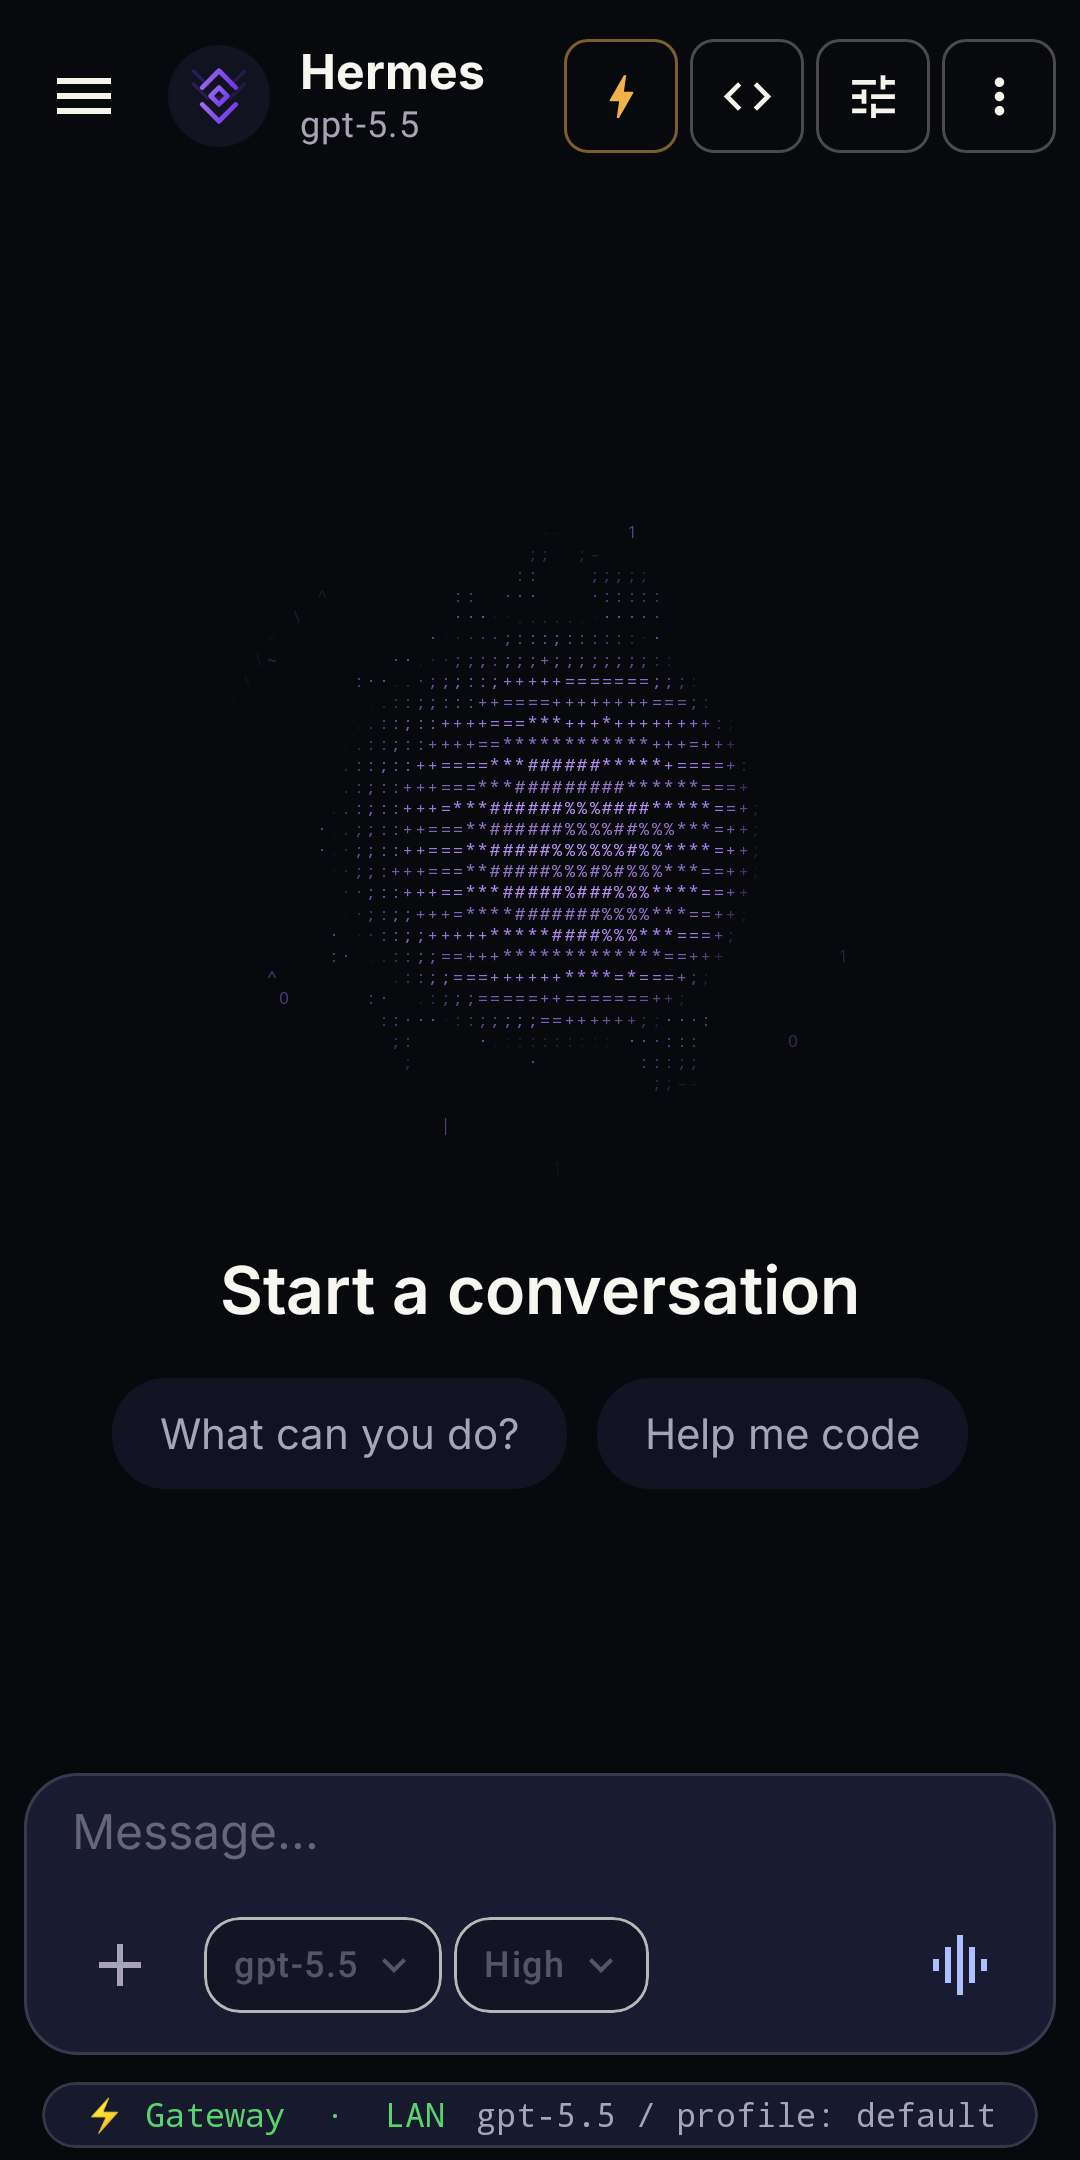
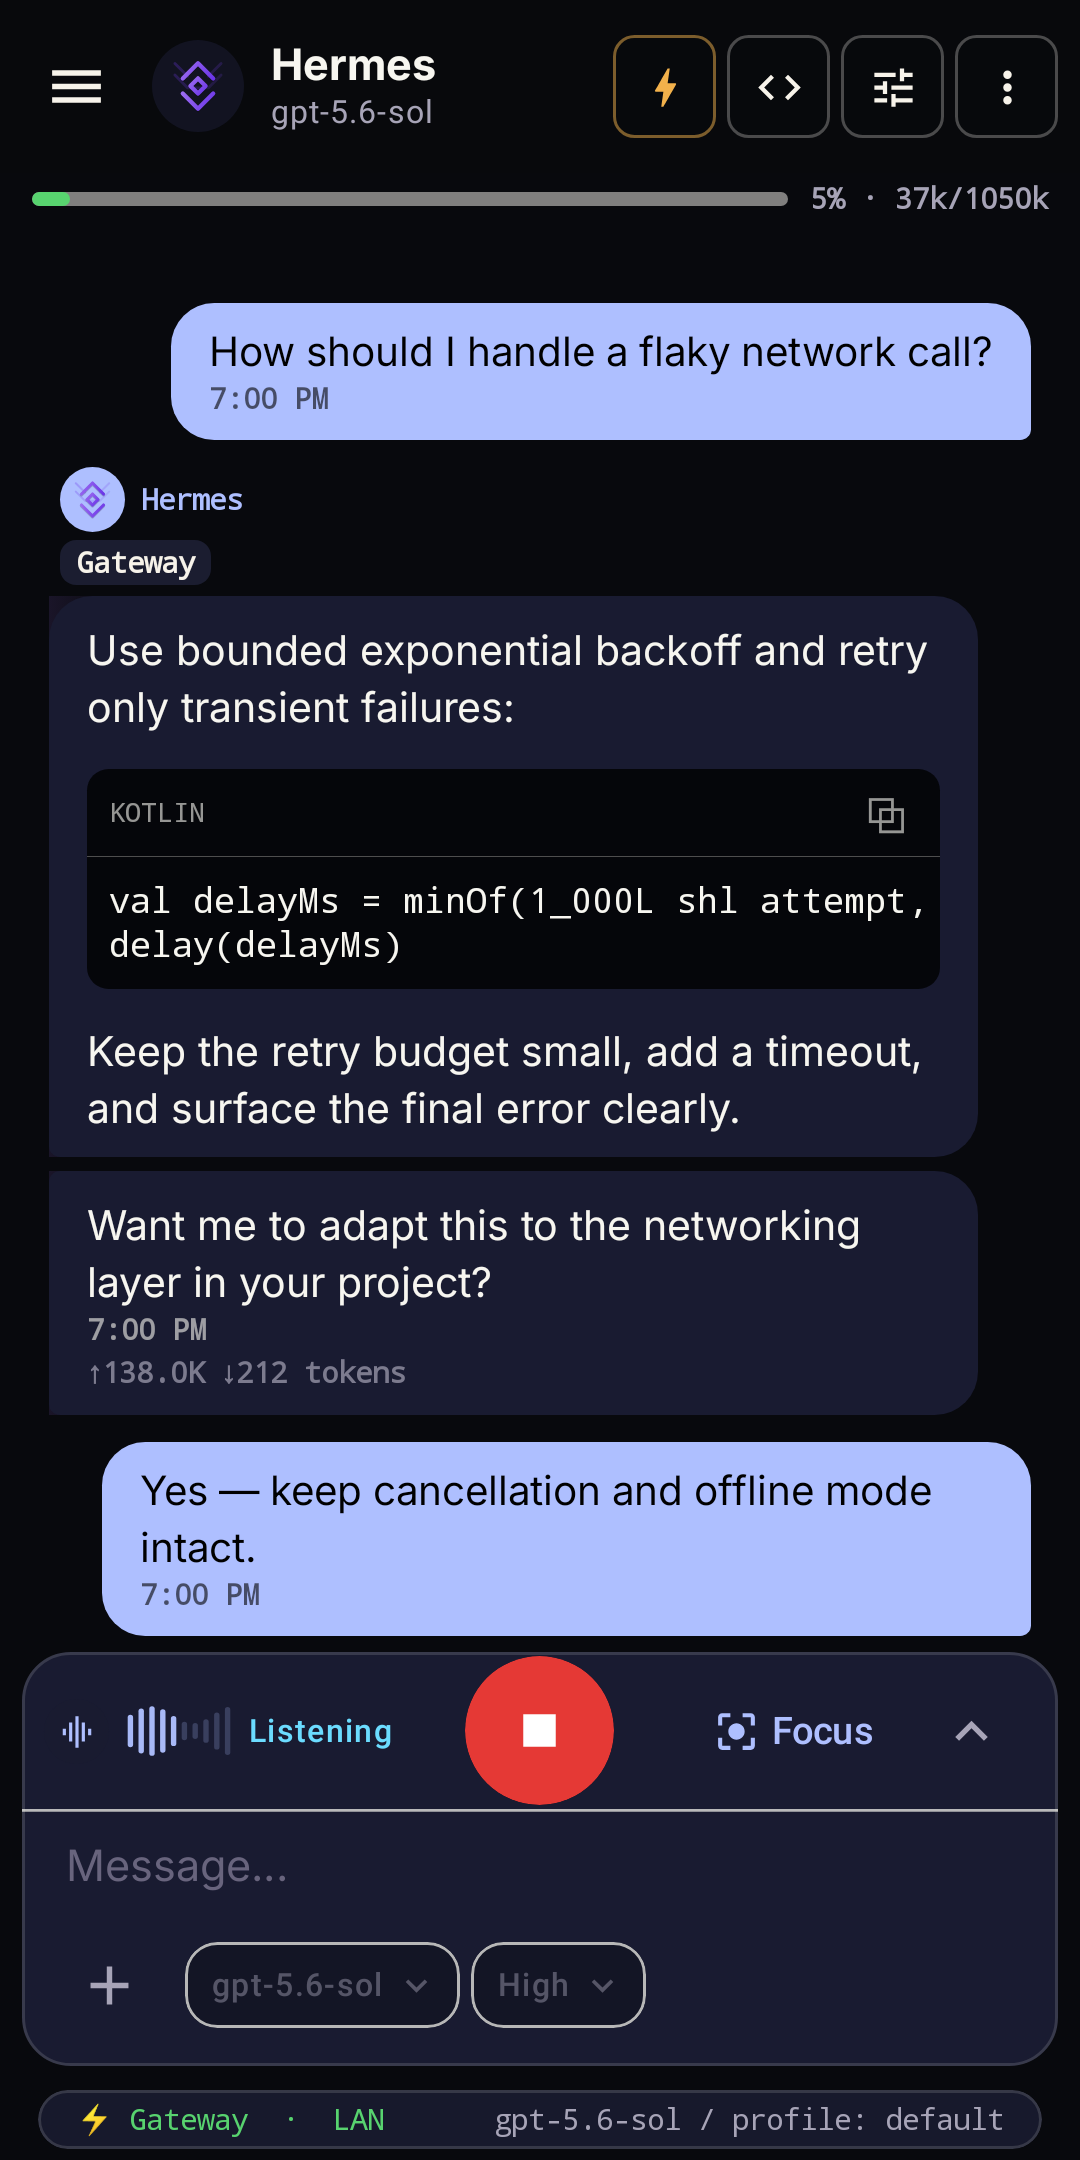
feat(marketing): refresh product screenshots

diff --git a/app/src/test/kotlin/com/hermesandroid/relay/screenshots/StoreScreenshotTest.kt b/app/src/test/kotlin/com/hermesandroid/relay/screenshots/StoreScreenshotTest.kt
@@ -1,9 +1,5 @@
 package com.hermesandroid.relay.screenshots
 
-import android.graphics.Bitmap
-import android.graphics.Canvas as AndroidCanvas
-import android.graphics.Color as AndroidColor
-import android.graphics.Paint as AndroidPaint
 import androidx.compose.foundation.background
 import androidx.compose.foundation.border
 import androidx.compose.foundation.verticalScroll
@@ -67,6 +63,7 @@ import com.hermesandroid.relay.ui.components.ChatInputBar
 import com.hermesandroid.relay.ui.components.ChatInputPickerControl
 import com.hermesandroid.relay.ui.components.ChatInputTrailing
 import com.hermesandroid.relay.ui.components.ContextMeterBar
+import com.hermesandroid.relay.ui.components.ConversationVoiceDock
 import com.hermesandroid.relay.ui.components.MessageBubble
 import com.hermesandroid.relay.ui.components.MorphingSphere
 import com.hermesandroid.relay.ui.components.RelayChromeIconButton
@@ -111,7 +108,6 @@ import org.junit.runner.RunWith
 import org.robolectric.annotation.Config
 import org.robolectric.annotation.GraphicsMode
 import java.io.File
-import java.io.FileOutputStream
 
 /**
  * Deterministic, host-side marketing frames with Roborazzi.
@@ -129,7 +125,7 @@ import java.io.FileOutputStream
  */
 @RunWith(AndroidJUnit4::class)
 @GraphicsMode(GraphicsMode.Mode.NATIVE)
-@Config(qualifiers = "w360dp-h720dp-xxhdpi") // 1080x2160 px @ density 3.0
+@Config(qualifiers = "w400dp-h800dp-432dpi") // 1080x2160 px, Galaxy Ultra-like 400x800dp viewport
 class StoreScreenshotTest {
 
     @get:Rule
@@ -179,6 +175,18 @@ class StoreScreenshotTest {
         compose.mainClock.advanceTimeByFrame()
         compose.onRoot().captureRoboImage("build/store-shots/03_voice.png")
     }
+    @Test fun s11_voice_conversation() {
+        compose.mainClock.autoAdvance = false
+        compose.setContent {
+            HermesRelayTheme(appThemeId = "hermes-relay", themePreference = "dark") {
+                CompositionLocalProvider(LocalSphereSkin provides SphereRegistry.Adaptive) {
+                    VoiceConversationScene()
+                }
+            }
+        }
+        compose.mainClock.advanceTimeByFrame()
+        compose.onRoot().captureRoboImage("build/store-shots/11_voice_conversation.png")
+    }
     // Real screen (1:1, auto-updates on layout changes). ConnectionViewModel
     // takes only an Application; Robolectric provides it. Renders every section
     // the production Appearance screen has — theme grid, mode, font, animation,
@@ -191,7 +199,6 @@ class StoreScreenshotTest {
                     AppearanceSettingsScreen(
                         connectionViewModel = vm,
                         onBack = {},
-                        initialCustomizerExpanded = true,
                     )
                 }
             }
@@ -257,42 +264,15 @@ class StoreScreenshotTest {
         compose.onRoot().captureRoboImage("build/store-shots/08_appearance.png")
     }
 
-    /** Public-safe, deterministic one-frame pet rendered through PetAvatar. */
+    /** Pinned Petdex Teknium idle frame rendered through the production PetAvatar. */
     private fun marketingPet(): PetAvatar {
-        val output = File("build/store-fixtures/pixel-companion.png")
-        output.parentFile?.mkdirs()
-
-        val bitmap = Bitmap.createBitmap(192, 192, Bitmap.Config.ARGB_8888)
-        val canvas = AndroidCanvas(bitmap)
-        val paint = AndroidPaint(AndroidPaint.ANTI_ALIAS_FLAG)
-
-        paint.color = AndroidColor.rgb(126, 87, 255)
-        canvas.drawRoundRect(36f, 48f, 156f, 154f, 34f, 34f, paint)
-        canvas.drawCircle(58f, 48f, 27f, paint)
-        canvas.drawCircle(134f, 48f, 27f, paint)
-        paint.color = AndroidColor.rgb(177, 196, 255)
-        canvas.drawOval(54f, 76f, 82f, 108f, paint)
-        canvas.drawOval(110f, 76f, 138f, 108f, paint)
-        paint.color = AndroidColor.rgb(8, 9, 14)
-        canvas.drawCircle(68f, 92f, 7f, paint)
-        canvas.drawCircle(124f, 92f, 7f, paint)
-        paint.strokeWidth = 7f
-        paint.style = AndroidPaint.Style.STROKE
-        canvas.drawArc(76f, 98f, 116f, 134f, 12f, 156f, false, paint)
-        paint.style = AndroidPaint.Style.FILL
-        paint.color = AndroidColor.rgb(87, 218, 136)
-        canvas.drawRoundRect(50f, 146f, 86f, 170f, 12f, 12f, paint)
-        canvas.drawRoundRect(106f, 146f, 142f, 170f, 12f, 12f, paint)
-
-        FileOutputStream(output).use { bitmap.compress(Bitmap.CompressFormat.PNG, 100, it) }
-        bitmap.recycle()
-
+        val output = File("src/test/resources/marketing/petdex-teknium-idle.png")
         val clip = FrameSequenceClip(files = listOf(output), fps = 1f)
         val stateClips = SphereState.entries.associateWith { clip }
         return PetAvatar(
-            id = "pixel-companion",
-            label = "Pixel",
-            description = "A public-safe custom companion fixture",
+            id = "petdex-teknium",
+            label = "Teknium",
+            description = "Petdex companion by asimons81",
             reactivity = SphereReactivity(voice = true, tools = true, intensity = true, gaze = false),
             activityClips = stateClips,
             workingClip = clip,
@@ -357,10 +337,15 @@ private fun ChatScene() = StoreCockpit(contextUsage = 0.04f) {
 // surface, and the compact 340dp cap + tightened density match production.
 @Composable
 private fun BlendChatScene() = StoreCockpit(contextUsage = 0.06f) {
+    BlendThread()
+}
+
+@Composable
+private fun BlendThread() {
     val thread = MockChat.blendThread
     Column(
-        Modifier.fillMaxSize().padding(horizontal = 12.dp, vertical = 10.dp),
-        verticalArrangement = Arrangement.spacedBy(2.dp)
+        Modifier.fillMaxSize().padding(start = 18.dp, top = 14.dp, end = 18.dp),
+        verticalArrangement = Arrangement.spacedBy(4.dp, Alignment.Bottom)
     ) {
         thread.forEachIndexed { i, m ->
             val first = i == 0 || thread[i - 1].role != m.role
@@ -368,7 +353,7 @@ private fun BlendChatScene() = StoreCockpit(contextUsage = 0.06f) {
             MessageBubble(
                 message = m,
                 modifier = Modifier.padding(top = if (first) 6.dp else 1.dp),
-                maxBubbleWidth = 340.dp,
+                maxBubbleWidth = 344.dp,
                 isFirstInGroup = first,
                 isLastInGroup = last,
             )
@@ -386,6 +371,7 @@ private fun BlendChatScene() = StoreCockpit(contextUsage = 0.06f) {
 private fun StoreCockpit(
     contextUsage: Float? = null,
     showInput: Boolean = true,
+    conversationVoiceState: VoiceUiState? = null,
     content: @Composable () -> Unit
 ) {
     val dark = MaterialTheme.colorScheme.background.luminance() < 0.5f
@@ -405,7 +391,7 @@ private fun StoreCockpit(
                     }
                     Column(Modifier.padding(start = 10.dp)) {
                         Text("Hermes", style = MaterialTheme.typography.titleMedium, fontWeight = FontWeight.Bold, maxLines = 1, overflow = TextOverflow.Ellipsis)
-                        Text("gpt-5.5", style = MaterialTheme.typography.bodySmall, color = MaterialTheme.colorScheme.onSurfaceVariant, maxLines = 1)
+                        Text("gpt-5.6-sol", style = MaterialTheme.typography.bodySmall, color = MaterialTheme.colorScheme.onSurfaceVariant, maxLines = 1)
                     }
                 }
             },
@@ -434,11 +420,35 @@ private fun StoreCockpit(
                 showVoiceHint = false,
                 onVoiceHintShown = {},
                 isDarkTheme = dark,
-                modelControl = ChatInputPickerControl(value = "gpt-5.5", contentDescription = "Select model", options = emptyList()),
+                modelControl = ChatInputPickerControl(value = "gpt-5.6-sol", contentDescription = "Select model", options = emptyList()),
                 effortControl = ChatInputPickerControl(value = "High", contentDescription = "Select reasoning effort", options = emptyList()),
+                topContent = {
+                    conversationVoiceState?.let { state ->
+                        ConversationVoiceDock(
+                            uiState = state,
+                            engineMode = "hermes_voice_output",
+                            provider = "OpenAI",
+                            model = "gpt-4o-mini-tts",
+                            voice = "alloy",
+                            profileName = "Hermes",
+                            outputEnabled = true,
+                            onMicTap = {},
+                            onMicRelease = {},
+                            onInterrupt = {},
+                            onPauseAutoMode = {},
+                            onModeChange = {},
+                            onFocusRequest = {},
+                            onOverlayRequest = {},
+                            onOpenSettings = {},
+                            onExit = {},
+                        )
+                    }
+                },
+                topContentVisible = conversationVoiceState != null,
+                suppressVoiceTrailing = conversationVoiceState != null,
             )
         }
-        RelayStatusStrip(leading = "⚡ Gateway  ·  LAN", trailing = "gpt-5.5 / profile: default")
+        RelayStatusStrip(leading = "⚡ Gateway  ·  LAN", trailing = "gpt-5.6-sol / profile: default")
     }
 }
 
@@ -464,7 +474,7 @@ private fun StoreSettings(title: String, content: @Composable androidx.compose.f
             verticalArrangement = Arrangement.spacedBy(16.dp),
             content = content,
         )
-        RelayStatusStrip(leading = "⚡ Gateway  ·  LAN", trailing = "gpt-5.5 / profile: default")
+        RelayStatusStrip(leading = "⚡ Gateway  ·  LAN", trailing = "gpt-5.6-sol / profile: default")
     }
 }
 
@@ -499,6 +509,14 @@ private fun VoiceScene() = VoiceModeOverlay(
     presentationMode = VoicePresentationMode.Focus,
 )
 
+@Composable
+private fun VoiceConversationScene() = StoreCockpit(
+    contextUsage = 0.05f,
+    conversationVoiceState = marketingVoiceUiState,
+) {
+    BlendThread()
+}
+
 /** The real sphere renderer pinned to one frame for pixel-identical marketing output. */
 private object FrozenMarketingSphere : AgentAvatar {
     override val id = "marketing-sphere"
@@ -530,12 +548,12 @@ private fun ChatWithPetScene(pet: AgentAvatar) {
         FloatingPetCompanion(
             pet = pet,
             state = AvatarRenderState(state = SphereState.Idle, paused = true),
-            placement = PetPlacement(PetLogicalEdge.End, 0.63f),
+            placement = PetPlacement(PetLogicalEdge.End, 0.93f),
             roamingEnabled = false,
             roamingAllowed = false,
-            behaviorPreferences = PetBehaviorPreferences(),
+            behaviorPreferences = PetBehaviorPreferences(sizeScale = 1.05f),
             surfaceScrolling = false,
-            compact = false,
+            compact = true,
             animationEnabled = false,
             appForeground = true,
             route = null,
@@ -549,6 +567,14 @@ private fun ChatWithPetScene(pet: AgentAvatar) {
         )
     }
 }
+
+private val marketingVoiceUiState = VoiceUiState(
+    voiceMode = true,
+    state = VoiceState.Listening,
+    amplitude = 0.42f,
+    interactionMode = InteractionMode.Continuous,
+)
+
 
 @OptIn(androidx.compose.material3.ExperimentalMaterial3Api::class)
 @Composable
@@ -590,7 +616,7 @@ private fun ManageScene() {
                 com.hermesandroid.relay.ui.components.RelayNavTile(ic.Tune, "Models", "Pick provider + default model", {})
             }
         }
-        RelayStatusStrip(leading = "⚡ Gateway  ·  LAN", trailing = "gpt-5.5 / profile: default")
+        RelayStatusStrip(leading = "⚡ Gateway  ·  LAN", trailing = "gpt-5.6-sol / profile: default")
     }
 }
 
@@ -690,7 +716,7 @@ private object MockChat {
 
 @Composable
 private fun SessionsScene() {
-    // The production drawer intentionally caps itself at 320dp inside a 360dp
+    // The production drawer intentionally caps itself at 320dp inside a wider
     // phone. Keep the full app viewport as the capture root so Roborazzi does
     // not shrink-wrap the image to the drawer's intrinsic width.
     Box(Modifier.fillMaxSize().background(MaterialTheme.colorScheme.scrim)) {
@@ -721,11 +747,11 @@ private fun ConnectionsScene() = ConnectionsSettingsScreen(
 )
 
 private val marketingSessions = listOf(
-    ChatSession("morning-focus", "Morning focus tips", "gpt-5.5", 8, lastActivityAt = 1_780_000_000_000, pinned = true),
-    ChatSession("android-polish", "Android appearance polish", "gpt-5.5", 23, lastActivityAt = 1_779_999_900_000, source = "phone"),
-    ChatSession("weekly-report", "Weekly report draft", "gpt-5.5", 11, lastActivityAt = 1_779_999_800_000),
-    ChatSession("voice-notes", "Voice workflow notes", "gpt-5.5", 17, lastActivityAt = 1_779_999_700_000),
-    ChatSession("trip-planning", "Trip planning", "gpt-5.5", 31, lastActivityAt = 1_779_999_600_000),
+    ChatSession("morning-focus", "Morning focus tips", "gpt-5.6-sol", 8, lastActivityAt = 1_780_000_000_000, pinned = true),
+    ChatSession("android-polish", "Android appearance polish", "gpt-5.6-sol", 23, lastActivityAt = 1_779_999_900_000, source = "phone"),
+    ChatSession("weekly-report", "Weekly report draft", "gpt-5.6-sol", 11, lastActivityAt = 1_779_999_800_000),
+    ChatSession("voice-notes", "Voice workflow notes", "gpt-5.6-sol", 17, lastActivityAt = 1_779_999_700_000),
+    ChatSession("trip-planning", "Trip planning", "gpt-5.6-sol", 31, lastActivityAt = 1_779_999_600_000),
 )
 
 private val marketingConnections = listOf(

diff --git a/app/src/main/kotlin/com/hermesandroid/relay/ui/components/AgentAvatarFace.kt b/app/src/main/kotlin/com/hermesandroid/relay/ui/components/AgentAvatarFace.kt
@@ -1,15 +1,20 @@
 package com.hermesandroid.relay.ui.components
 
+import androidx.compose.foundation.Image
 import androidx.compose.foundation.layout.Box
 import androidx.compose.foundation.layout.fillMaxSize
+import androidx.compose.foundation.layout.padding
 import androidx.compose.material3.MaterialTheme
 import androidx.compose.material3.Text
 import androidx.compose.runtime.Composable
 import androidx.compose.ui.Alignment
 import androidx.compose.ui.Modifier
 import androidx.compose.ui.layout.ContentScale
+import androidx.compose.ui.res.painterResource
 import androidx.compose.ui.text.TextStyle
+import androidx.compose.ui.unit.dp
 import coil3.compose.AsyncImage
+import com.hermesandroid.relay.R
 import java.io.File
 
 /**
@@ -27,6 +32,15 @@ fun AgentAvatarFace(name: String, letterStyle: TextStyle, modifier: Modifier = M
             contentDescription = null,
             contentScale = ContentScale.Crop,
             modifier = modifier.fillMaxSize(),
+        )
+    } else if (name.equals("Hermes", ignoreCase = true)) {
+        Image(
+            painter = painterResource(R.drawable.splash_icon),
+            contentDescription = null,
+            contentScale = ContentScale.Fit,
+            modifier = modifier
+                .fillMaxSize()
+                .padding(2.dp),
         )
     } else {
         Box(modifier = modifier.fillMaxSize(), contentAlignment = Alignment.Center) {

diff --git a/app/src/main/kotlin/com/hermesandroid/relay/ui/screens/AppearanceSettingsScreen.kt b/app/src/main/kotlin/com/hermesandroid/relay/ui/screens/AppearanceSettingsScreen.kt
@@ -1650,7 +1650,7 @@ private fun AppearanceLivePreviewContent() {
                     horizontalArrangement = Arrangement.spacedBy(8.dp),
                 ) {
                     Icon(Icons.Filled.Add, null, Modifier.size(18.dp), tint = MaterialTheme.colorScheme.onSurfaceVariant)
-                    Text("gpt-5.5", style = MaterialTheme.typography.labelSmall.copy(fontSize = 9.sp))
+                    Text("gpt-5.6-sol", style = MaterialTheme.typography.labelSmall.copy(fontSize = 9.sp))
                     Icon(Icons.Filled.KeyboardArrowDown, null, Modifier.size(14.dp))
                     Text("High", style = MaterialTheme.typography.labelSmall.copy(fontSize = 9.sp))
                     Icon(Icons.Filled.KeyboardArrowDown, null, Modifier.size(14.dp))

diff --git a/docs/screenshot-automation.md b/docs/screenshot-automation.md
@@ -135,14 +135,20 @@ The canonical marketing lineup intentionally exercises current product seams:
   hosts it.
 - `03_voice` renders the real `VoiceModeOverlay` with a fixed sphere frame,
   public-safe transcript, waveform, and session controls.
+- `01_voice_conversation` renders the real `ConversationVoiceDock` inside the
+  chat composer, so the Play lineup covers both Voice presentation modes.
 - `04_sessions` renders the real `SessionDrawerContent` with deterministic
   `ChatSession` fixtures, including pinned and Thread states.
 - `05_themes` renders the real Appearance preview and expanded customizer.
 - `07_connections` renders the real `ConnectionsSettingsScreen` with
   deterministic connection and dashboard-status fixtures.
 - `08_appearance` renders the real floating-pet controls with a deterministic
-  one-frame fixture passed through `PetAvatar`; the fixture is generated under
-  `app/build/store-fixtures/` and is not a second source asset.
+  pinned Teknium idle frame from Petdex passed through `PetAvatar`; provenance
+  lives beside the fixture in `app/src/test/resources/marketing/`.
+- Supplemental `12_theme_customizer` and `13_font_picker` expand Appearance
+  coverage beyond the two Play-listing frames.
+- Supplemental `14_startup` preserves the lower-information empty-chat frame
+  outside the eight-slot Play lineup.
 
 ### Render any view going forward
 
@@ -160,8 +166,9 @@ Add a `@Test` that calls the `capture(name, themeId) { ... }` helper:
   scaffolds wrap content in real chrome.
 - **Theme** — any `AppThemes.ALL` id; `capture()` wraps the body in
   `HermesRelayTheme` + provides the `Adaptive` sphere skin (the app's real default).
-- **Resolution** — the class `@Config(qualifiers = "w360dp-h720dp-xxhdpi")` = 1080x2160.
-  Change it for other sizes.
+- **Resolution** — the class uses
+  `@Config(qualifiers = "w400dp-h800dp-432dpi")`: a Galaxy Ultra-like 400x800dp
+  viewport rendered at exactly 1080x2160 for Play's 2:1 limit.
 
 ### Constraints
 

diff --git a/README.md b/README.md
@@ -138,7 +138,7 @@ Full server setup, TLS, and systemd details: [docs/relay-server.md](docs/relay-s
 
 <table>
   <tr>
-    <td align="center" width="25%"><img src="assets/screenshots/01_startup.png" alt="Cold start" width="100%"><br><sub><b>Cold start</b></sub></td>
+    <td align="center" width="25%"><img src="assets/screenshots/01_voice_conversation.png" alt="Voice controls in chat" width="100%"><br><sub><b>Voice in chat</b></sub></td>
     <td align="center" width="25%"><img src="assets/screenshots/02_chat.png" alt="Streaming chat" width="100%"><br><sub><b>Streaming chat</b></sub></td>
     <td align="center" width="25%"><img src="assets/screenshots/03_voice.png" alt="Hands-free voice" width="100%"><br><sub><b>Hands-free voice</b></sub></td>
     <td align="center" width="25%"><img src="assets/screenshots/04_sessions.png" alt="Session history" width="100%"><br><sub><b>Session history</b></sub></td>

diff --git a/app/src/test/resources/marketing/README.md b/app/src/test/resources/marketing/README.md
@@ -1,0 +1,13 @@
+# Marketing fixture provenance
+
+`petdex-teknium-idle.png` is the first 192x208 idle cell extracted without
+resampling from Petdex's immutable Teknium spritesheet:
+
+- Petdex entry: https://petdex.dev/pets/teknium
+- Source asset: https://assets.petdex.dev/pets/teknium-764590a21410/sprite.webp
+- Catalog credit: `asimons81`
+- Source spritesheet: 1536x1872, arranged as 8x9 cells
+
+The pinned frame keeps Roborazzi screenshots offline and deterministic while
+rendering the real Petdex artwork through Hermes-Relay's production
+`PetAvatar` and `FloatingPetCompanion` components.
